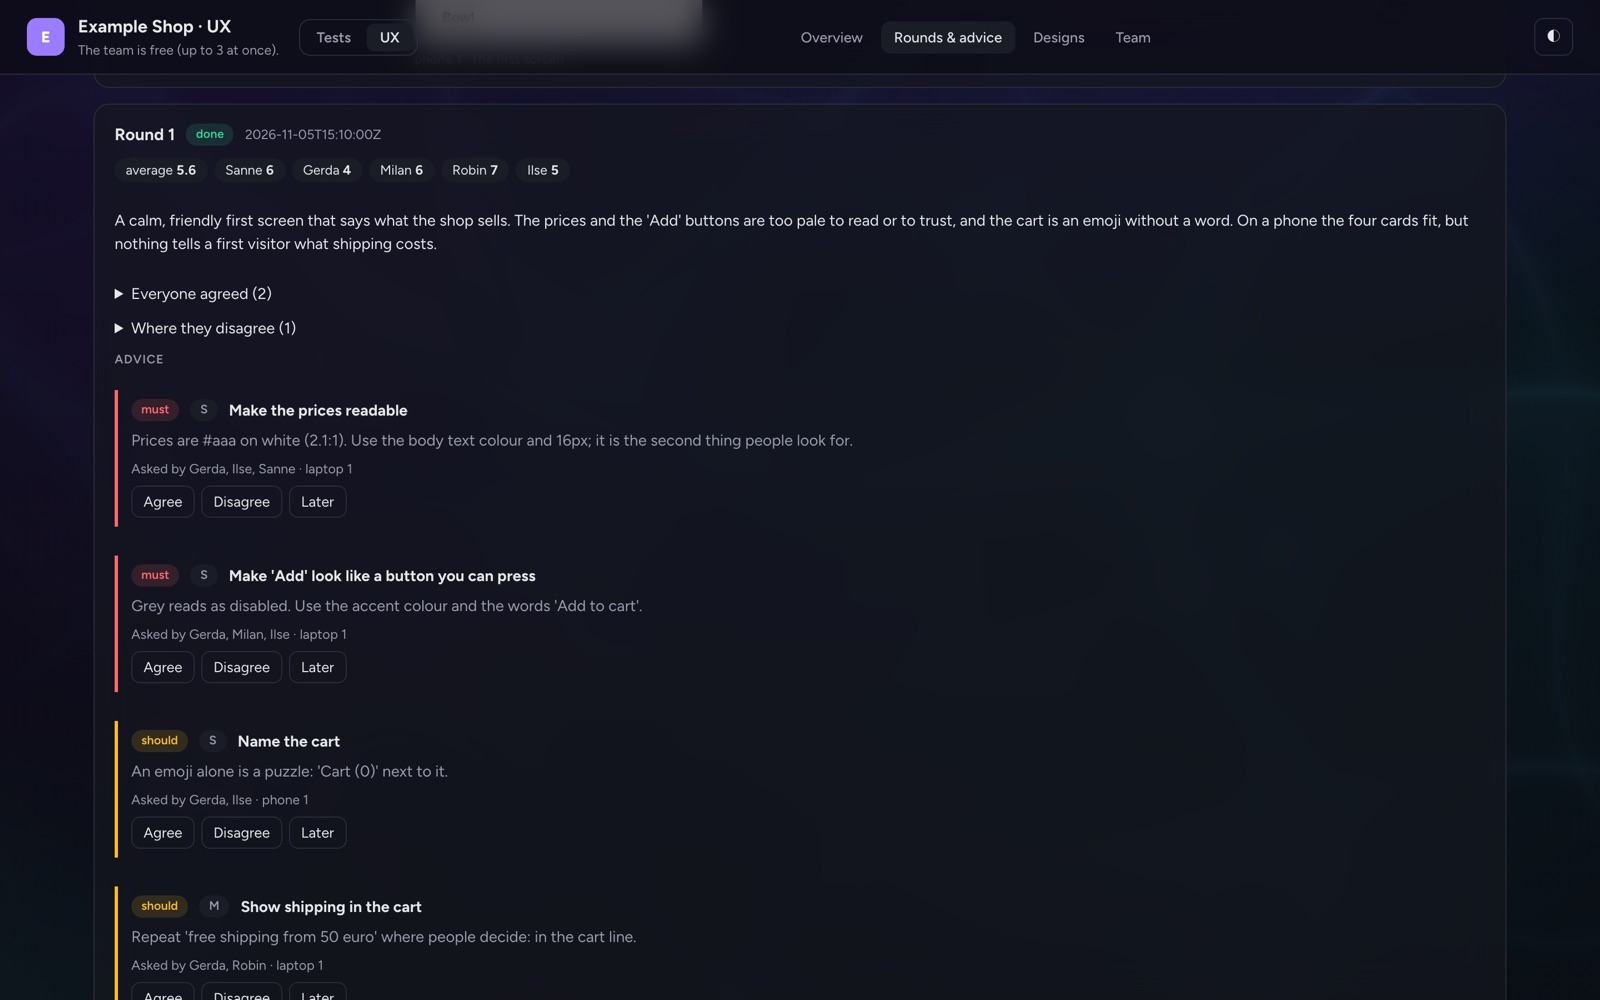
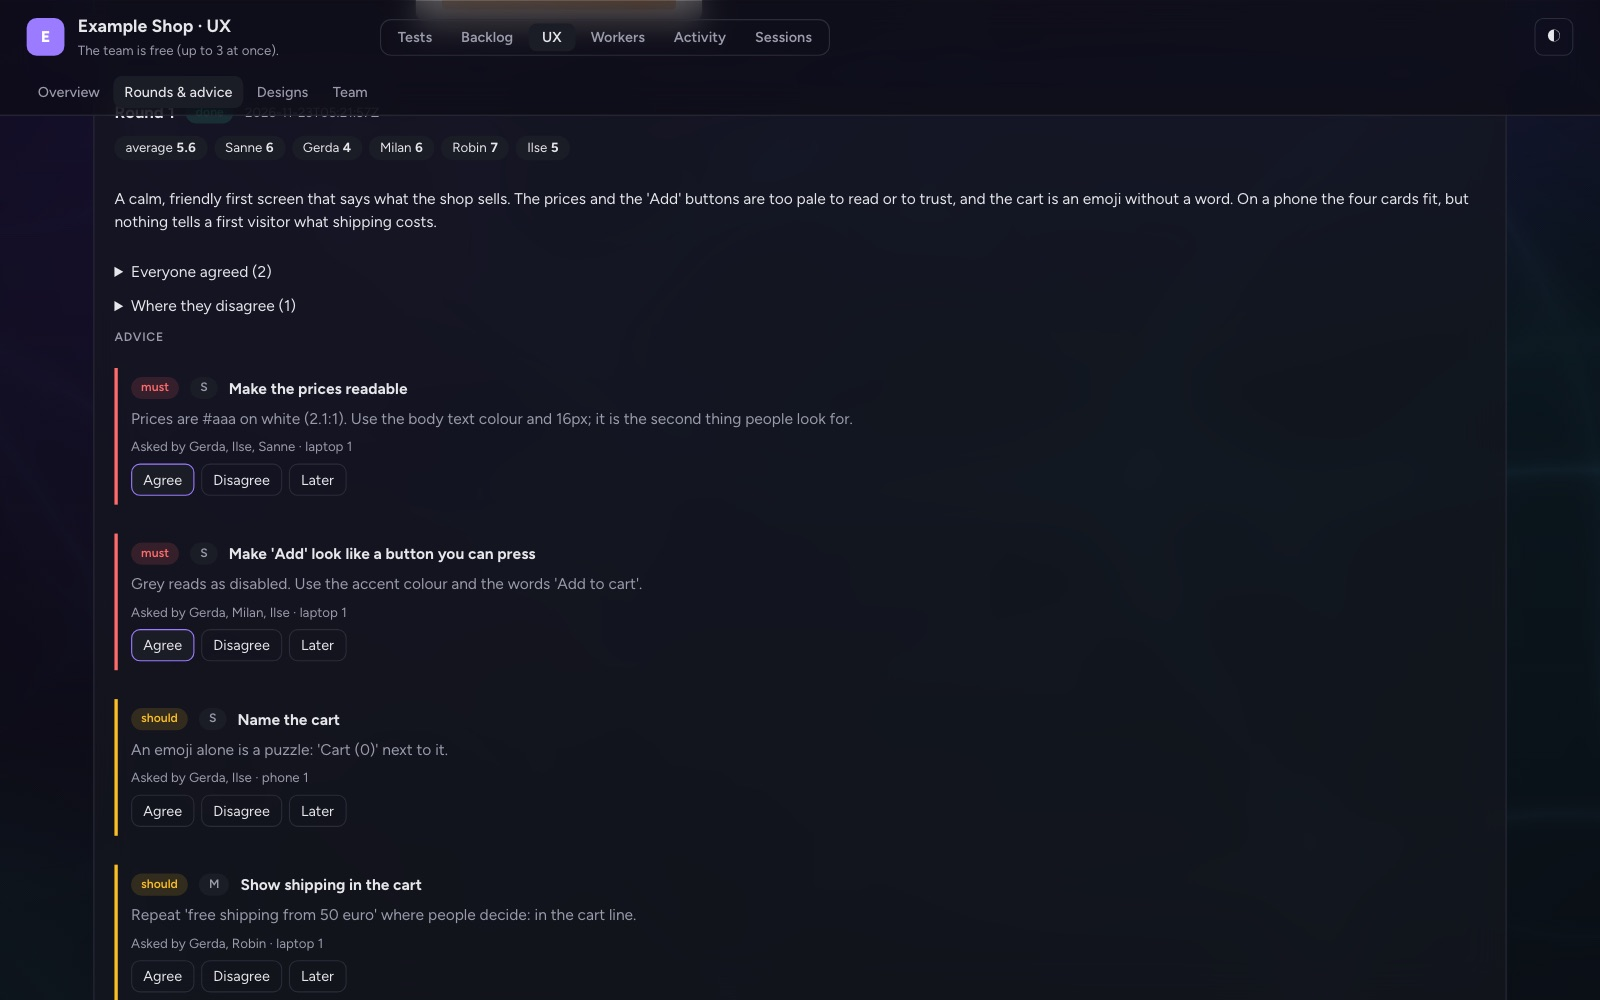
Pictures for 0.1.4: a fresh demo project, with Activity, the workers and the board's movement
Taken with Playwright (1440x900 at 1600x1000) from an Example Shop made with
crissp init 0.1.4: its backlog and moves, test run, workers and the UX suite's
own screenshots are real; the UX texts and the Claude session on the Activity
page are samples, as the README and the website say. README, website and
release notes updated.

diff --git a/site/index.html b/site/index.html
@@ -84,15 +84,17 @@ Release gate: <span class="ok">green</span> · deploying 3f2a9c1</pre>
 
   <section id="see" class="block">
     <p class="eyebrow">See it</p>
-    <h2>One local dashboard for the tests, the board and the UX team.</h2>
+    <h2>One local dashboard for the tests, the board, the UX team and what Claude is doing now.</h2>
     <div class="shots">
       <figure class="card shot wide"><img src="images/ux-design.jpg" alt="A design: the screen as it is now next to the designer's proposal, with Approve, Approve with a remark, Again and Reject" loading="lazy"><figcaption><b>Before and after, then approve.</b> What people see now next to the design, the same size. Your remark goes into the backlog item.</figcaption></figure>
       <figure class="card shot"><img src="images/dashboard.jpg" alt="The Tests dashboard: tests passing, line and branch coverage, the coverage gate" loading="lazy"><figcaption><b>What the last run proved:</b> tests, coverage, the gate, every step.</figcaption></figure>
-      <figure class="card shot"><img src="images/board.jpg" alt="The backlog board with epics, features and items per status" loading="lazy"><figcaption><b>The board:</b> written by Claude through the crissp tool; only you move work to done.</figcaption></figure>
+      <figure class="card shot wide"><img src="images/activity.jpg" alt="The Activity page: a busy Claude session, its orchestrator's current step and three agents, two running and one finished" loading="lazy"><figcaption><b>What Claude is doing now.</b> Per session the orchestrator's current step and every agent it started, running first, live.</figcaption></figure>
+      <figure class="card shot"><img src="images/board.jpg" alt="The backlog board: moved recently, from where to where and in which commit, above the lanes per status" loading="lazy"><figcaption><b>The board and how it moved:</b> from where to where, when, in which commit or not committed yet. Only you move work to done.</figcaption></figure>
+      <figure class="card shot"><img src="images/workers.jpg" alt="The workers page: this machine's CPUs and memory, and a step's tests spread over three workers" loading="lazy"><figcaption><b>The workers:</b> a step's tests spread over what this machine has, worker by worker.</figcaption></figure>
       <figure class="card shot"><img src="images/ux-advice.jpg" alt="A UX round: scores per persona and advice marked must, should and could" loading="lazy"><figcaption><b>The UX team's advice:</b> scores, agreements, disputes, and advice you answer.</figcaption></figure>
       <figure class="card shot"><img src="images/ux-team.jpg" alt="The UX team: five personas with their device and what they look for" loading="lazy"><figcaption><b>The team:</b> who they are and what they look for, per product.</figcaption></figure>
     </div>
-    <p class="small muted">A demo project made with <code>crissp init</code>: its backlog, test run and screenshots are real; the UX round's and the design's text is a sample (a real round runs on your own Claude login).</p>
+    <p class="small muted">A demo project made with <code>crissp init</code>: its backlog, test run and screenshots are real; the UX round's and the design's text and the Claude session on the Activity page are samples (a real round runs on your own Claude login).</p>
   </section>
 
   <section id="letters" class="block">

diff --git a/README.md b/README.md
@@ -48,15 +48,26 @@ Guards are plain scripts, with no AI in them. They decide what is green.
 
 ## See it
 
-One local server (`crissp dashboard`, on 127.0.0.1) shows the tests, the backlog board and the UX team, in one dark
-look (a light theme is one click away). It never runs a test and loads nothing from the internet.
+One local server (`crissp dashboard`, on 127.0.0.1) shows the tests, the backlog board, the UX team, the workers and
+what Claude is doing now, under one top bar (Tests · Backlog · UX · Workers · Activity · Sessions) in one dark look (a
+light theme is one click away). It never runs a test and loads nothing from the internet.
 
 **What the last run proved**: tests, line and branch coverage, the coverage gate, every step.
 ![The Tests dashboard](https://raw.githubusercontent.com/richardedens/crissp/main/docs/images/dashboard.jpg)
 
-**The backlog board**: epics, features and items, as Claude writes them through the crissp tool. Only you move work to
-done. The *UX: approved designs* epic fills itself when you approve a design.
+**What Claude is doing now** (Activity): per session the question asked, what the orchestrator does at this moment and
+for how long, and every agent it started, running ones first, each with its own current step. Read live from Claude
+Code's own records on your machine; only what Claude sent to its tools.
+![The Activity page](https://raw.githubusercontent.com/richardedens/crissp/main/docs/images/activity.jpg)
+
+**The backlog board and how it moved**: epics, features and items, as Claude writes them through the crissp tool, and
+above them every move: from where to where, when, and in which commit, or *not committed* yet. Each card says how long
+it has stood in its column. Only you move work to done. The *UX: approved designs* epic fills itself when you approve a
+design.
 ![The backlog board](https://raw.githubusercontent.com/richardedens/crissp/main/docs/images/board.jpg)
+
+**The workers**: a parallel step's tests spread over what this machine has (CPUs, memory), worker by worker, live.
+![The workers page](https://raw.githubusercontent.com/richardedens/crissp/main/docs/images/workers.jpg)
 
 **The UX team's advice**: scores per persona, what they agreed on, where they disagree, and advice you answer with
 *Agree · Disagree · Later*.
@@ -70,8 +81,9 @@ item, and your remark is the first thing the builder reads in it.
 **The team**: who they are, which device they use and what they look for, configured per product.
 ![The UX team](https://raw.githubusercontent.com/richardedens/crissp/main/docs/images/ux-team.jpg)
 
-<sub>The pictures show a demo project made with `crissp init`. Its backlog, test run and screenshots are real; the UX
-round's and the design's text is a sample, because a real round runs on your own Claude login and costs tokens.</sub>
+<sub>The pictures show a demo project made with `crissp init` (0.1.4). Its backlog and its moves, test run, workers and
+screenshots are real; the UX round's and the design's text and the Claude session on the Activity page are samples,
+because a real round runs on your own Claude login and costs tokens.</sub>
 
 ## Start a project
 
@@ -103,7 +115,7 @@ diff first.
 | `crissp check [--plan]` | Runs only what the changes since the last green state can affect, then moves the certificate to this commit |
 | `crissp check-all` | The full run, with the coverage gate |
 | `crissp deploy [--plan \| --cluster \| --cluster-plan]` | Deploys only behind the release gate; `--cluster-plan` shows what it would do and changes nothing |
-| `crissp dashboard` | The Tests dashboard, the backlog board and the UX team on 127.0.0.1 |
+| `crissp dashboard` | The Tests dashboard, the backlog board, the UX team, the workers and what Claude is doing now (`/activity`) on 127.0.0.1 |
 | `crissp ux [--list \| --status \| --shoot \| --round \| --propose]` | The UX team: screenshots of a walk, a round, a design |
 | `crissp repair [--yes]` | Says what a project brought in earlier has out of place (old steps, the UX suite's address, files in `crissp/uxsuite/`, missing template files); `--yes` puts it in place, never deleting or committing |
 | `crissp mcp` | The crissp MCP server that Claude Code starts from `.mcp.json` |

diff --git a/CHANGELOG.md b/CHANGELOG.md
@@ -6,14 +6,18 @@ What changed in C.R.I.S.S.P., newest first. One entry per version (the version i
 
 - **One top bar on every page.** The Tests dashboard, the backlog board, the UX suite, the workers page and the Claude
   sessions pages now show the same sections in the same order (Tests · Backlog · UX · Workers · Activity · Sessions), with the
-  open one marked. Backlog is a section of its own, and opens the board.
+  open one marked. Backlog is a section of its own, and opens the board. The title follows the open section
+  ("Shop · Backlog" on the board), the menu starts at the same place on every page, and a page's own tabs (Tests, UX)
+  get a row of their own instead of wrapping.
 - **The board shows how the backlog moves.** "Moved recently" above the lanes lists the newest moves (from → to, how long
   ago, and the commit, or "not committed" for a move in the working tree). Each card says how long it has stood in its
   column, and its details list every move. A commit shows on the board within seconds.
 - **An Activity page** (`/activity`) shows live what Claude is doing in this repository: per session the last prompt,
   what the orchestrator (the main thread) is doing now and for how long, and every agent it started, running ones first,
-  each with its own current step. It reads Claude Code's own transcripts on this machine and shows only what Claude
-  sent to its tools.
+  each with its own current step; agents that finished more than an hour ago are counted, not listed. It reads Claude
+  Code's own transcripts on this machine and shows only what Claude sent to its tools.
+- **New pictures** in the README and on the website, from a fresh 0.1.4 demo project, including the Activity page,
+  the workers and the board's movement.
 
 ## 0.1.3 — 2026-11-24
 
